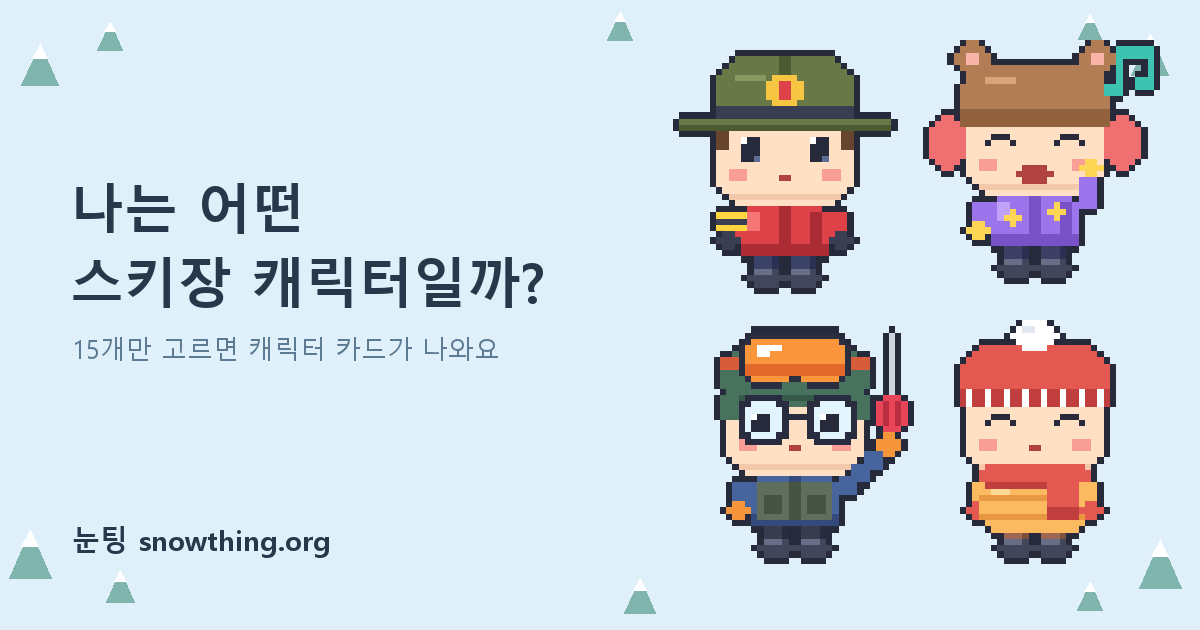
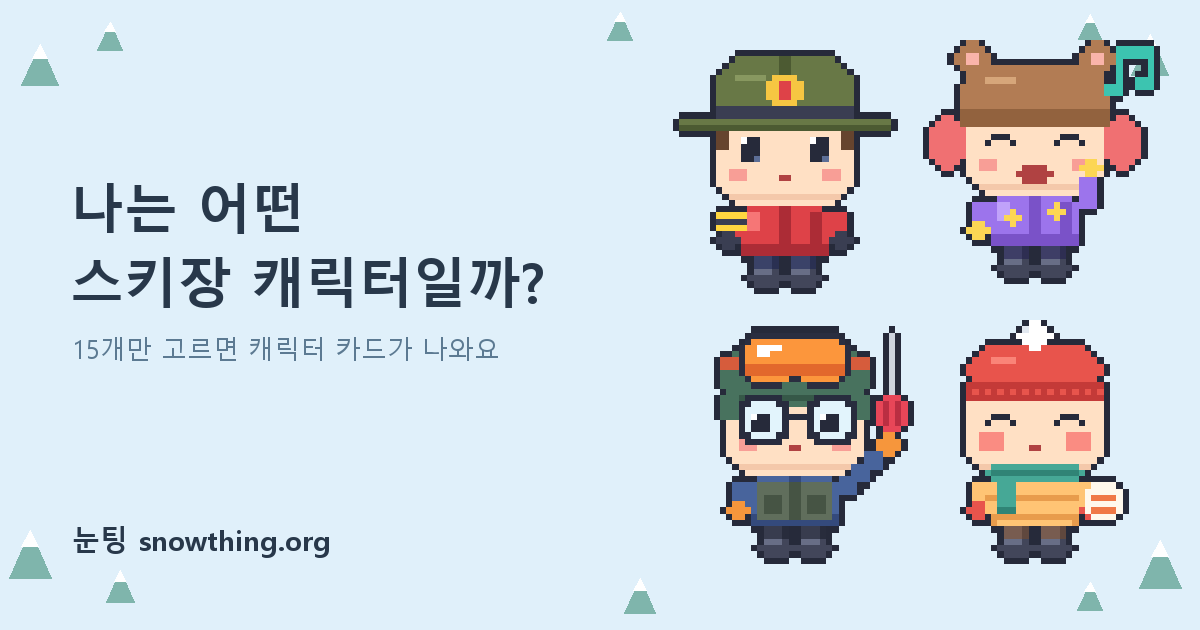
fix: 인간 핫팩 캐릭터를 다시 그리기
모자가 얼굴 위까지 덮고 빨간 목도리가 턱을 가려 답답해 보였다. 모자는 이마 위에서 끝내고,
초록 목도리를 턱 아래로 감고, 손에 핫팩을 쥐여 직업이 드러나게 한다. 공유 미리보기 그림도 다시 만든다.

Changed region(s): [[0.8017, 0.6937, 0.9558, 0.8746], [0.7708, 0.5127, 0.9558, 0.6937]]

diff --git a/scripts/generate-character-test-images.py b/scripts/generate-character-test-images.py
@@ -298,28 +298,40 @@ def grinder():
 
 
 def hot_pack():
-    """인간 핫팩: 빵빵한 솜 패딩, 방울 모자, 큰 목도리."""
+    """인간 핫팩: 귤색 솜 패딩, 빨간 방울 모자, 초록 목도리, 손에 든 핫팩."""
     c = Canvas()
-    jacket, dark, light = (252, 186, 96, 255), (232, 152, 64, 255), (255, 216, 150, 255)
-    knit, knit_dark = (228, 88, 82, 255), (192, 62, 62, 255)
-    body(c, jacket, dark, light, (156, 104, 84, 255), (124, 80, 62, 255), knit)
-    # 몸통을 넓히고 누빔 선을 넣어 빵빵하게 한다.
-    c.blob(11, 25, 18, 9, jacket, radius=2)
-    c.rect(11, 28, 18, 1, dark)
-    c.rect(11, 31, 18, 1, dark)
-    c.rect(13, 26, 3, 2, light)
+    jacket, dark, light = (255, 196, 116, 255), (232, 156, 76, 255), (255, 226, 176, 255)
+    knit, knit_dark, knit_light = (232, 84, 76, 255), (196, 58, 56, 255), (250, 132, 120, 255)
+    scarf, scarf_dark = (70, 168, 150, 255), (48, 132, 118, 255)
+    body(c, jacket, dark, light, (120, 92, 80, 255), (96, 72, 62, 255), knit)
+    # 빵빵한 패딩: 몸통을 조금 넓히고 누빔 선 두 줄
+    c.blob(12, 25, 16, 8, jacket, radius=2)
+    c.rect(12, 28, 16, 1, dark)
+    c.rect(13, 31, 14, 1, dark)
+    c.rect(14, 26, 3, 1, light)
     head(c, "smile")
-    c.blob(8, 4, 24, 10, knit, radius=3)
-    c.rect(8, 11, 24, 3, knit_dark)
-    for x in range(9, 32, 3):
-        c.rect(x, 11, 1, 3, WHITE)
-    c.blob(16, 0, 8, 5, WHITE, radius=2)
-    c.rect(18, 1, 2, 1, (226, 232, 240, 255))
-    c.blob(11, 23, 18, 4, knit)
-    c.rect(12, 26, 16, 1, knit_dark)
-    c.rect(22, 26, 5, 6, knit)
-    c.rect(22, 30, 5, 2, knit_dark)
+    # 볼이 발그레한 핫팩: 볼 터치를 크게
+    c.rect(11, 18, 4, 3, (250, 140, 130, 255))
+    c.rect(25, 18, 4, 3, (250, 140, 130, 255))
+    c.rect(19, 20, 2, 1, MOUTH)
+    # 방울 모자: 머리 위만 덮고 접은 단은 이마 위에서 끝난다
+    c.blob(9, 4, 22, 8, knit, radius=3)
+    c.rect(9, 10, 22, 3, knit_dark)
+    for x in range(10, 31, 2):
+        c.dot(x, 11, knit)
+    c.rect(13, 6, 4, 1, knit_light)
+    c.blob(17, 0, 6, 5, WHITE, radius=2)
+    c.dot(18, 1, (226, 232, 240, 255))
+    # 목도리: 턱 아래로 한 번 감고 한쪽 끝을 늘어뜨린다
+    c.blob(12, 23, 16, 3, scarf, radius=1)
+    c.rect(13, 24, 14, 1, scarf_dark)
+    c.rect(14, 25, 3, 6, scarf)
+    c.rect(14, 30, 3, 1, scarf_dark)
+    # 오른손에 든 핫팩 주머니
     right_arm(c, jacket, knit)
+    c.blob(28, 26, 6, 6, (255, 248, 236, 255), radius=1)
+    c.rect(29, 28, 4, 1, (240, 120, 70, 255))
+    c.rect(29, 30, 4, 1, (240, 120, 70, 255))
     c.outline()
     return c
 
